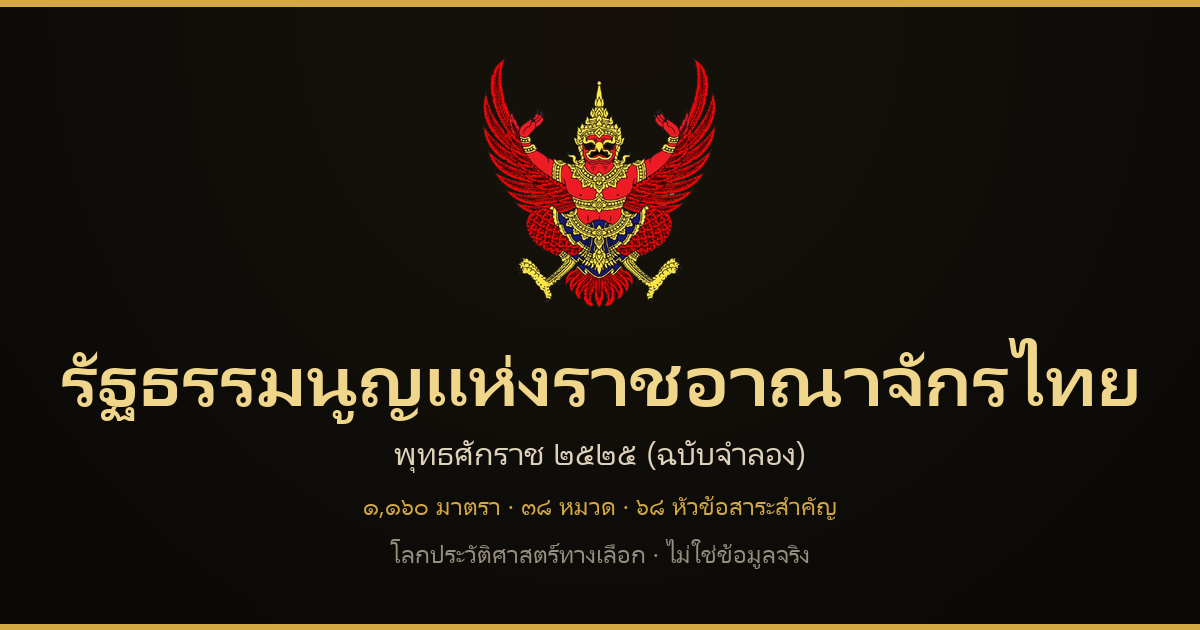
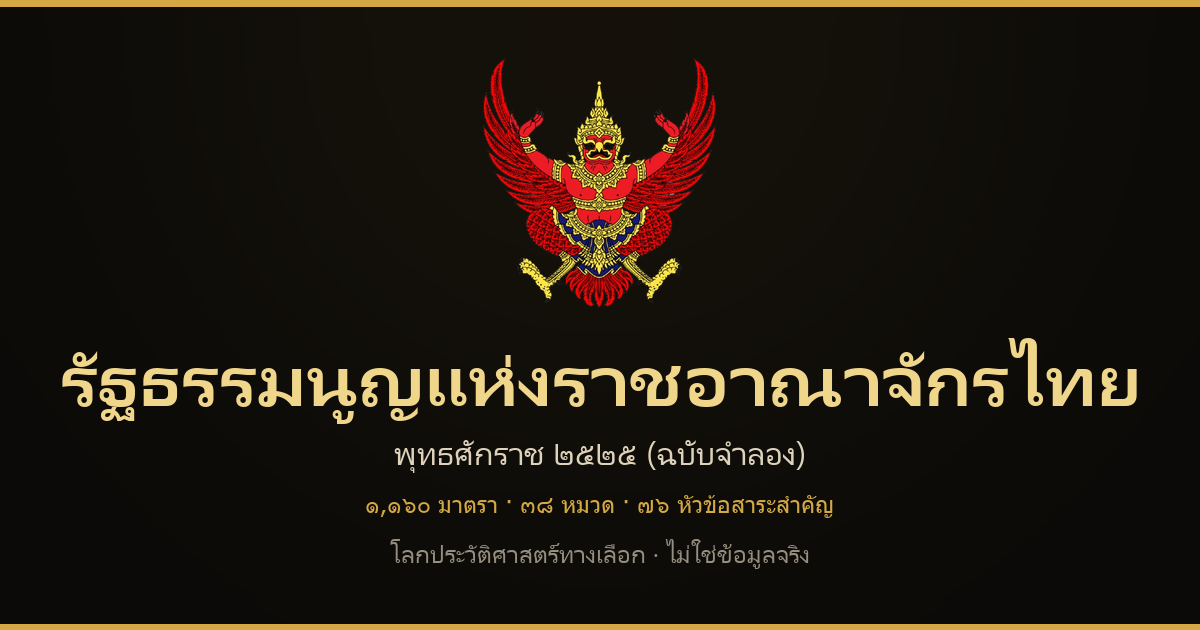
Link-preview image says ๗๖ หัวข้อ (was ๖๘)

Changed region(s): [[0.3083, 0.7841, 0.7092, 0.8143]]

diff --git a/.claude/skills/constitution-site/SKILL.md b/.claude/skills/constitution-site/SKILL.md
@@ -856,7 +856,11 @@ present-tense numbers (chakri, maharaj incl. its reign bar chart, national-days,
 sappaya, siam-medicine, and index.html's "Present Day" panel + timeline). When the year
 moves again, sweep those; '๒๗๓๑' elsewhere is history (the 2731 election) and must stay.
 The sweep also exposed that index/maharaj had said ๓๒๒ ปี of reign — wrong even for ๒๗๓๑.
-`images/og_cover.png` still prints "๖๙ หัวข้อ" (a rendered image, not text).
+`images/og_cover.png` was repainted to "๗๖ หัวข้อ" (it had said ๖๘). To change one line of a
+rendered image: print a per-row brightness profile first and take the band between the
+empty rows — a first attempt guessed a 470–539 band, caught the lines above and below and
+smeared them. Tahoma 23 px gold (212,168,67) matches that line; the original was untouched
+because the bad result was written to scratchpad, never over the file.
 
 ## Canon order of ๒๗๓๖–๒๗๓๗ (user, 2026-10-16) — later corrections changed it twice
 
